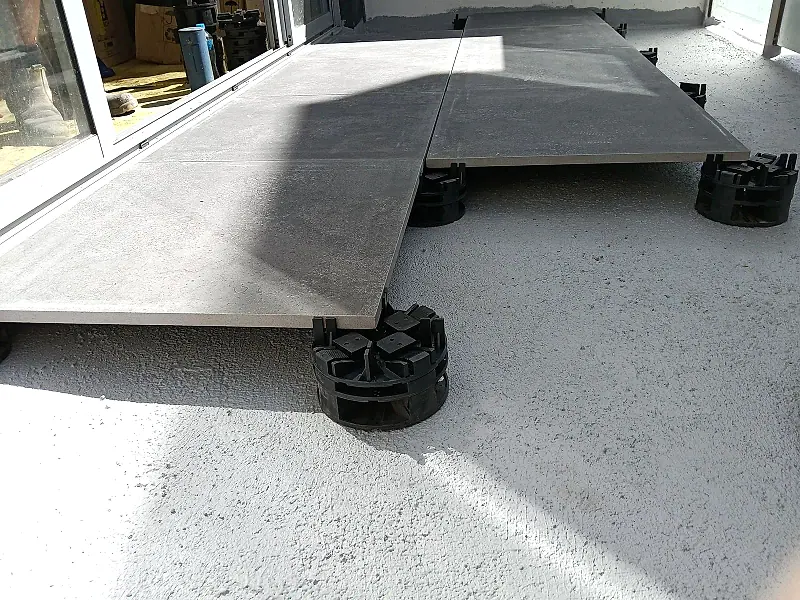
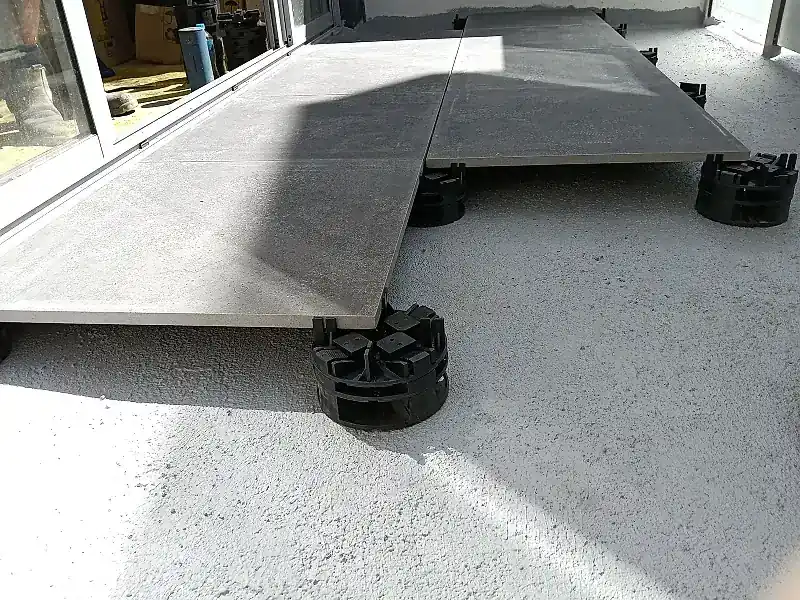
Polish: non-blocking fonts + route code-splitting + eager first tiles (images appear <0.5s), unique photos per section, 2 new pod/tile shots, mobile spacing fixes

diff --git a/src/data/index.js b/src/data/index.js
@@ -34,6 +34,8 @@ export const NAV_LINKS = [
 //   duration    "3 weeks" etc.
 //   photos      extra photos of the same job: [{ id, w, h, alt? }] (same -800/-1600 file naming)
 //   before, after   { id, w, h } pair -> draggable Before/After slider on the project page
+//   featured    true to show the job as a card under "Recent projects" on Home (first 3 featured; falls back to the first 3 jobs)
+//   card        photo id to use for the Recent projects card instead of the main photo (keeps one photo from repeating on Home)
 //   pod         true for Aqua Pods jobs: listed first, shown on /aqua-pods
 // Order here = order everywhere (strip, grid, Recent projects), so keep pod jobs at the top.
 // Only add facts the client has confirmed. Alt text/captions: job type + suburb only, never
@@ -42,10 +44,11 @@ export const NAV_LINKS = [
 // SERVICES entries may carry photo: "<WORK photo id>" for the card image on Home.
 export const WORK = [
   { pod: true, id: "pods-middle-park", slug: "pods-middle-park", caption: "Aqua Pods and tiles with steps", place: "Middle Park", w: 1600, h: 1200 },
-  { pod: true, id: "pods-maribyrnong", slug: "pods-maribyrnong", caption: "Aqua Pods going down", place: "Maribyrnong", w: 1600, h: 1200 },
-  { id: "balcony-mordialloc-1", slug: "balcony-mordialloc", caption: "New balcony membrane", place: "Mordialloc", w: 1600, h: 1200, photos: [{ id: "balcony-mordialloc-2", w: 1600, h: 1200 }, { id: "balcony-mordialloc-3", w: 1600, h: 1200 }] },
-  { id: "courtyard-brighton-1", slug: "courtyard-brighton", caption: "Courtyard waterproofing", place: "Brighton", w: 1600, h: 1200, photos: [{ id: "courtyard-brighton-2", w: 1600, h: 1200 }] },
+  { pod: true, id: "pods-maribyrnong", slug: "pods-maribyrnong", caption: "Aqua Pods going down", place: "Maribyrnong", w: 1600, h: 1200, featured: true, photos: [{ id: "pods-maribyrnong-2", w: 1600, h: 1200 }] },
+  { id: "balcony-mordialloc-1", slug: "balcony-mordialloc", caption: "New balcony membrane", place: "Mordialloc", w: 1600, h: 1200, featured: true, card: "balcony-mordialloc-4", photos: [{ id: "balcony-mordialloc-2", w: 1600, h: 1200 }, { id: "balcony-mordialloc-3", w: 1600, h: 1200 }, { id: "balcony-mordialloc-4", w: 1600, h: 1200 }, { id: "balcony-mordialloc-5", w: 1600, h: 1200 }] },
+  { id: "courtyard-brighton-1", slug: "courtyard-brighton", caption: "Courtyard waterproofing", place: "Brighton", w: 1600, h: 1200, featured: true, photos: [{ id: "courtyard-brighton-2", w: 1600, h: 1200 }] },
   { id: "shower-waterproofing", slug: "shower-waterproofing", caption: "Shower and bath waterproofing", place: "Melbourne", w: 1600, h: 1200 },
+  { id: "tiled-balcony-bayside-1", slug: "tiled-balcony-bayside", caption: "Tiled balcony", place: "Bayside", w: 1600, h: 1200 },
 ];
 
 export const workSrc = (id, w) => `/work/${id}-${w}.webp`;
@@ -61,7 +64,7 @@ export const GALLERY = WORK.flatMap((p) =>
 );
 export const POD_GALLERY = GALLERY.filter((g) => g.pod);
 // grid columns that avoid orphan items for n cards
-export const gridCols = (n) => (n <= 1 ? "" : n === 2 ? "sm:grid-cols-2" : n % 3 === 0 ? "sm:grid-cols-3" : n % 4 === 0 ? "sm:grid-cols-2 lg:grid-cols-4" : n % 2 === 0 ? "sm:grid-cols-2" : "sm:grid-cols-2 lg:grid-cols-3");
+export const gridCols = (n) => (n <= 1 ? "" : n === 2 ? "sm:grid-cols-2" : n % 3 === 0 ? "sm:grid-cols-3" : n % 5 === 0 ? "sm:grid-cols-2 lg:grid-cols-5" : n % 4 === 0 ? "sm:grid-cols-2 lg:grid-cols-4" : n % 2 === 0 ? "sm:grid-cols-2" : "sm:grid-cols-2 lg:grid-cols-3");
 export const POD_WORK = WORK.filter((p) => p.pod);
 export const getProject = (slug) => WORK.find((p) => projectSlug(p) === slug);
 
@@ -103,7 +106,7 @@ export const SERVICES = [
   {
     icon: Wrench,
     slug: "rectification-works",
-    photo: "courtyard-brighton-1",
+    photo: "courtyard-brighton-2",
     title: "Rectification Works",
     desc: "Expert diagnosis and repair of failed waterproofing, water damage, and structural defects in bathrooms, balconies, and all wet areas.",
     overviewHeading: "Melbourne Waterproofing Rectification",
@@ -137,7 +140,7 @@ export const SERVICES = [
   {
     icon: LayoutGrid,
     slug: "versipave-pod-system",
-    photo: "pods-maribyrnong",
+    photo: "pods-maribyrnong-2",
     title: "Aqua Pods",
     desc: "Industry-leading suspended balcony drainage solution that provides full membrane access without tile removal, ideal for balcony rectification.",
     overviewHeading: "Aqua Pods",
@@ -205,7 +208,7 @@ export const SERVICES = [
   {
     icon: Hammer,
     slug: "renovations",
-    photo: "balcony-mordialloc-1",
+    photo: "balcony-mordialloc-2",
     title: "Renovations",
     desc: "Bathroom and wet area renovations completed to the highest standard, from targeted upgrades to complete rebuilds with waterproofing in-house.",
     overviewHeading: "Melbourne Bathroom Renovations",
@@ -239,7 +242,7 @@ export const SERVICES = [
   {
     icon: Layers,
     slug: "tiling",
-    photo: "pods-middle-park",
+    photo: "tiled-balcony-bayside-1",
     title: "Tiling",
     desc: "All tile formats and finishes, heritage mosaic to large-format porcelain, floor and wall, wet and dry areas. Laid to the Australian Standard.",
     overviewHeading: "Melbourne Tiling Services",
@@ -273,7 +276,7 @@ export const SERVICES = [
   {
     icon: Shield,
     slug: "over-existing-surfaces",
-    photo: "balcony-mordialloc-2",
+    photo: "balcony-mordialloc-1",
     title: "Over Existing Hard Surfaces",
     desc: "Specialist systems applied directly over existing hard surfaces, eliminating full demolition in many rectification scenarios.",
     overviewHeading: "Waterproofing Without Full Demolition",

diff --git a/src/pages/Home.jsx b/src/pages/Home.jsx
@@ -7,7 +7,7 @@ import {
   Award, Check, ArrowRight, ExternalLink, Shield,
   Droplets, Eye, ShieldCheck, Star,
 } from "lucide-react";
-import { SERVICES, TESTIMONIALS, FAQS, CREDENTIALS, WORK, GALLERY, POD_GALLERY, workSrc, projectSlug, projectTitle, gridCols } from "../data/index.js";
+import { SERVICES, TESTIMONIALS, FAQS, CREDENTIALS, WORK, GALLERY, workSrc, projectSlug, projectTitle, gridCols } from "../data/index.js";
 import RevealText from "../components/RevealText.jsx";
 import CountUp from "../components/CountUp.jsx";
 import TrustBar from "../components/TrustBar.jsx";
@@ -137,7 +137,7 @@ function Hero() {
       />
       <div className="absolute inset-0" style={{ background: "linear-gradient(180deg, rgba(10,31,37,0.78) 0%, rgba(10,31,37,0.62) 50%, rgba(10,31,37,0.85) 100%)" }} />
 
-      <div className="relative z-10 max-w-5xl mx-auto px-4 sm:px-6 text-center pt-28 pb-20">
+      <div className="relative z-10 max-w-5xl mx-auto px-4 sm:px-6 text-center pt-24 pb-12 sm:pt-28 sm:pb-20">
         <div
           className="inline-flex items-center gap-2 rounded-full px-4 py-1.5 text-xs sm:text-sm font-medium mb-6 tracking-wide border"
           style={{ backgroundColor: "rgba(10,143,166,0.3)", borderColor: "rgba(125,216,232,0.5)", color: "#ffffff" }}
@@ -153,7 +153,7 @@ function Hero() {
           </span>
         </h1>
 
-        <p className="text-base sm:text-xl text-white/90 max-w-2xl mx-auto mb-9 leading-relaxed">
+        <p className="text-base sm:text-xl text-white/90 max-w-2xl mx-auto mb-7 sm:mb-9 leading-relaxed">
           Expert waterproofing for bathrooms, balconies, wet areas, and rectification works across Melbourne&apos;s Bayside, Mornington Peninsula, and Eastern Suburbs.
         </p>
 
@@ -177,7 +177,7 @@ function Hero() {
           </a>
         </div>
 
-        <div className="mt-12 grid grid-cols-3 gap-4 sm:gap-6 max-w-md mx-auto">
+        <div className="mt-8 sm:mt-12 grid grid-cols-3 gap-4 sm:gap-6 max-w-md mx-auto">
           {[
             { val: "18+", label: "Years Experience" },
             { val: "99+", label: "Jobs Completed" },
@@ -397,7 +397,6 @@ function Services() {
 // ─── Aqua Pods ───────────────────────────────────────────────────────────────
 
 function AquaPodsSection() {
-  const pod = POD_GALLERY.find((g) => g.id === "pods-maribyrnong") ?? POD_GALLERY[0];
   return (
     <section id="aqua-pods" className="py-16 bg-white">
       <div className="max-w-6xl mx-auto px-4 sm:px-6">
@@ -436,21 +435,20 @@ function AquaPodsSection() {
               </a>
             </div>
           </div>
-          {pod && (
-            <div className="relative min-h-[240px] md:min-h-0">
-              <img
-                src={workSrc(pod.id, 800)}
-                srcSet={`${workSrc(pod.id, 800)} 800w, ${workSrc(pod.id, 1600)} 1600w`}
-                sizes="(min-width: 768px) 50vw, 100vw"
-                alt={pod.alt}
-                width={pod.w}
-                height={pod.h}
-                loading="lazy"
-                decoding="async"
-                className="absolute inset-0 h-full w-full object-cover"
-              />
-            </div>
-          )}
+          <div className="grid grid-cols-2 gap-4 p-8 sm:p-12 md:pl-0 content-center">
+            {[
+              { icon: Shield,   title: "No Demolition",    desc: "Waterproof without tile removal" },
+              { icon: Award,    title: "Certified System", desc: "Industry-proven product" },
+              { icon: Check,    title: "Cost Effective",   desc: "Major savings over full strip-out" },
+              { icon: Droplets, title: "Balcony Focused",  desc: "Designed for suspended balconies" },
+            ].map(({ icon: Icon, title, desc }) => (
+              <div key={title} className="bg-white/10 border border-white/20 rounded-xl p-4">
+                <Icon className="w-5 h-5 text-blue-200 mb-2" />
+                <div className="font-semibold text-white text-sm">{title}</div>
+                <div className="text-xs text-blue-200 mt-0.5">{desc}</div>
+              </div>
+            ))}
+          </div>
         </div>
       </div>
     </section>
@@ -484,7 +482,8 @@ function OurWork() {
 const RECENT_PROJECTS = 3;
 
 function RecentProjects() {
-  const list = WORK.slice(0, RECENT_PROJECTS);
+  const featured = WORK.filter((w) => w.featured);
+  const list = (featured.length ? featured : WORK).slice(0, RECENT_PROJECTS);
   if (list.length === 0) return null;
   return (
     <section id="projects" className="py-16 bg-white">
@@ -498,7 +497,7 @@ function RecentProjects() {
             <Link key={p.id} to={`/projects/${projectSlug(p)}`} className="group block overflow-hidden rounded-2xl bg-white border border-neutral-200 shadow-sm hover:shadow-md transition-shadow">
               <div className="aspect-[4/3] overflow-hidden bg-gray-100">
                 <img
-                  src={workSrc(p.id, 800)}
+                  src={workSrc(p.card ?? p.id, 800)}
                   alt={`${p.caption}, ${p.place}`}
                   width={p.w}
                   height={p.h}

diff --git a/src/App.jsx b/src/App.jsx
@@ -1,15 +1,15 @@
 import { Routes, Route, useLocation } from "react-router-dom";
-import { useEffect } from "react";
+import { useEffect, lazy, Suspense } from "react";
 import Navbar from "./components/Navbar.jsx";
 import Footer from "./components/Footer.jsx";
 import StickyQuoteBar from "./components/StickyQuoteBar.jsx";
 import Home from "./pages/Home.jsx";
-import ServiceDetail from "./pages/ServiceDetail.jsx";
-import ServiceAreas from "./pages/ServiceAreas.jsx";
-import ProjectDetail from "./pages/ProjectDetail.jsx";
-import OurWork from "./pages/OurWork.jsx";
-import AquaPods from "./pages/AquaPods.jsx";
-import NotFound from "./pages/NotFound.jsx";
+const ServiceDetail = lazy(() => import("./pages/ServiceDetail.jsx"));
+const ServiceAreas = lazy(() => import("./pages/ServiceAreas.jsx"));
+const ProjectDetail = lazy(() => import("./pages/ProjectDetail.jsx"));
+const OurWork = lazy(() => import("./pages/OurWork.jsx"));
+const AquaPods = lazy(() => import("./pages/AquaPods.jsx"));
+const NotFound = lazy(() => import("./pages/NotFound.jsx"));
 
 function ScrollToTop() {
   const { pathname, hash } = useLocation();
@@ -56,7 +56,8 @@ export default function App() {
       <PhoneClickTracker />
       <Navbar />
       <main>
-        <Routes>
+        <Suspense fallback={<div className="min-h-screen" />}>
+          <Routes>
           <Route path="/" element={<Home />} />
           <Route path="/services/:slug" element={<ServiceDetail />} />
           <Route path="/service-areas" element={<ServiceAreas />} />
@@ -65,6 +66,7 @@ export default function App() {
           <Route path="/projects/:slug" element={<ProjectDetail />} />
           <Route path="*" element={<NotFound />} />
         </Routes>
+        </Suspense>
       </main>
       <Footer />
       <StickyQuoteBar />

diff --git a/src/pages/AquaPods.jsx b/src/pages/AquaPods.jsx
@@ -31,7 +31,7 @@ export default function AquaPods() {
   const title = "Aqua Pods Melbourne | Aquatight Waterproofing";
   const desc = "Aqua Pods for suspended balconies, built on the Versipave system. Membrane access without removing the tiling. AS3740 certified waterproofers across Melbourne. Free quote.";
   const items = POD_GALLERY.map((p) => ({ src: workSrc(p.id, 1600), alt: p.alt, caption: p.caption, sub: p.place }));
-  const hero = POD_WORK[0];
+  const hero = POD_GALLERY.find((g) => g.id === "pods-maribyrnong-2") ?? POD_GALLERY[POD_GALLERY.length - 1] ?? POD_WORK[0];
 
   return (
     <div className="min-h-screen bg-white">
@@ -49,7 +49,7 @@ export default function AquaPods() {
 
       <section className="relative min-h-[60vh] overflow-hidden" style={{ background: "linear-gradient(135deg, #0a1f25 0%, #0a8fa6 100%)" }}>
         {hero && (
-          <img src={workSrc(hero.id, 1600)} alt="" width={hero.w} height={hero.h} decoding="async" className="absolute inset-0 h-full w-full object-cover opacity-25" />
+          <img src={workSrc(hero.id, 1600)} srcSet={`${workSrc(hero.id, 800)} 800w, ${workSrc(hero.id, 1600)} 1600w`} sizes="100vw" alt="" width={hero.w} height={hero.h} fetchPriority="high" decoding="async" className="absolute inset-0 h-full w-full object-cover opacity-25" />
         )}
         <div className="relative z-10 max-w-6xl mx-auto px-4 sm:px-6 pt-32 pb-16 text-white">
           <div className="inline-flex items-center gap-2 bg-white/15 border border-white/20 rounded-full px-3 py-1 text-sm font-medium mb-5">

diff --git a/src/pages/OurWork.jsx b/src/pages/OurWork.jsx
@@ -43,17 +43,18 @@ export default function OurWork() {
                   alt={p.alt}
                   width={p.w}
                   height={p.h}
-                  loading={i < 3 ? "eager" : "lazy"}
+                  loading={i < 6 ? "eager" : "lazy"}
+                  fetchPriority={i < 4 ? "high" : undefined}
                   decoding="async"
                   className="h-full w-full object-cover transition-transform duration-500 group-hover:scale-105"
                 />
               </button>
-              <div className="p-4 text-sm flex items-center justify-between gap-2">
+              <div className="p-4 text-sm flex flex-col items-start gap-1.5">
                 <div>
                   <div className="font-semibold text-neutral-900">{p.caption}</div>
                   <div className="text-neutral-500">{p.place}</div>
                 </div>
-                <Link to={`/projects/${p.slug}`} className="font-medium whitespace-nowrap" style={{ color: AQUA }}>View project</Link>
+                <Link to={`/projects/${p.slug}`} className="font-medium" style={{ color: AQUA }}>View project</Link>
               </div>
             </div>
           ))}

diff --git a/index.html b/index.html
@@ -7,6 +7,9 @@
     <link rel="preconnect" href="https://fonts.googleapis.com" />
     <link rel="preconnect" href="https://fonts.gstatic.com" crossorigin />
     <link rel="preconnect" href="https://www.googletagmanager.com" />
+    <!-- Non-blocking font CSS (a blocking stylesheet delays the React bundle and every image) -->
+    <link rel="stylesheet" href="https://fonts.googleapis.com/css2?family=Playfair+Display:wght@700;800&family=Inter:wght@400;500;600;700&display=swap" media="print" onload="this.media='all'" />
+    <noscript><link rel="stylesheet" href="https://fonts.googleapis.com/css2?family=Playfair+Display:wght@700;800&family=Inter:wght@400;500;600;700&display=swap" /></noscript>
     <meta name="viewport" content="width=device-width, initial-scale=1.0" />
 
     <title>Aquatight Waterproofing | Melbourne's Trusted Waterproofing Specialists</title>

diff --git a/src/components/Footer.jsx b/src/components/Footer.jsx
@@ -5,7 +5,7 @@ export default function Footer() {
   const resetColor = (e) => (e.currentTarget.style.color = "");
 
   return (
-    <footer style={{ backgroundColor: "#1a1a1a" }} className="text-neutral-400 py-12">
+    <footer style={{ backgroundColor: "#1a1a1a" }} className="text-neutral-400 pt-12 pb-24 sm:pb-12">
       <div className="max-w-6xl mx-auto px-4 sm:px-6">
         <div className="grid sm:grid-cols-2 md:grid-cols-3 gap-8 mb-8">
           <div>

diff --git a/src/pages/ProjectDetail.jsx b/src/pages/ProjectDetail.jsx
@@ -60,6 +60,9 @@ export default function ProjectDetail() {
       <section className="relative h-[55vh] min-h-[400px] overflow-hidden" style={{ backgroundColor: "#1a1a1a" }}>
         <img
           src={workSrc(project.id, 1600)}
+          srcSet={`${workSrc(project.id, 800)} 800w, ${workSrc(project.id, 1600)} 1600w`}
+          sizes="100vw"
+          fetchPriority="high"
           alt=""
           width={project.w}
           height={project.h}

diff --git a/src/components/WorkStrip.jsx b/src/components/WorkStrip.jsx
@@ -39,6 +39,7 @@ export default function WorkStrip() {
                   width={p.w}
                   height={p.h}
                   loading={dup ? "lazy" : "eager"}
+                  fetchPriority={i < 4 ? "high" : undefined}
                   decoding="async"
                   draggable="false"
                   className="h-full w-full object-cover transition-transform duration-500 group-hover:scale-105"

diff --git a/src/index.css b/src/index.css
@@ -1,4 +1,3 @@
-@import url('https://fonts.googleapis.com/css2?family=Playfair+Display:wght@700;800&family=Inter:wght@400;500;600;700&display=swap');
 @import "tailwindcss";
 
 @theme {

diff --git a/CLAUDE.md b/CLAUDE.md
@@ -21,11 +21,13 @@ Uses a pages folder:
 
 ## Photos and projects (data-driven)
 Adding a job = one `WORK` entry in `src/data/index.js` + `public/work/<id>-800.webp` and `<id>-1600.webp`.
-It then appears in the Home strip, the `/our-work` grid, Recent projects on Home (first 3 jobs), and its own `/projects/<slug>` page. All photos are cropped to 4:3 (1600x1200 + 800x600) so grids stay even; `SERVICES[].photo` picks each Home service card image. Pod jobs: `pod: true`
+It then appears in the Home strip, the `/our-work` grid, Recent projects on Home (first 3 jobs flagged `featured: true`; `card` picks a different photo for the card), and its own `/projects/<slug>` page. All photos are cropped to 4:3 (1600x1200 + 800x600) so grids stay even; `SERVICES[].photo` picks each Home service card image. Pod jobs: `pod: true`
 (keep them first in the array; they feed `/aqua-pods`). Optional fields (render only if present): `slug`, `title`, `overview`,
 `scope`, `duration`, `photos` (extra images), `before` + `after` (`{id,w,h}` pair -> Before/After slider). See the comment above `WORK`.
 Add new project slugs to `public/sitemap.xml`. Never invent facts. Alt text/captions: job type + suburb only; no client names or addresses;
 strip EXIF/GPS and compress to WebP before committing. Scroll-reveal/count-up animations were removed on purpose (content visible on first paint). `prefers-reduced-motion` stops the strip/reviews animating (they become scrollable rows). Naming: "Aqua Pods" everywhere; "Versipave" appears once (service overview) plus verbatim client quotes.
+
+Keep each photo to at most 2 uses per page (Home strip counts as one). Fonts are loaded non-blocking from `index.html` (a blocking stylesheet/@import delays the whole bundle and every image).
 
 ## Phone Number
 **Display**: 0408 827 996  
